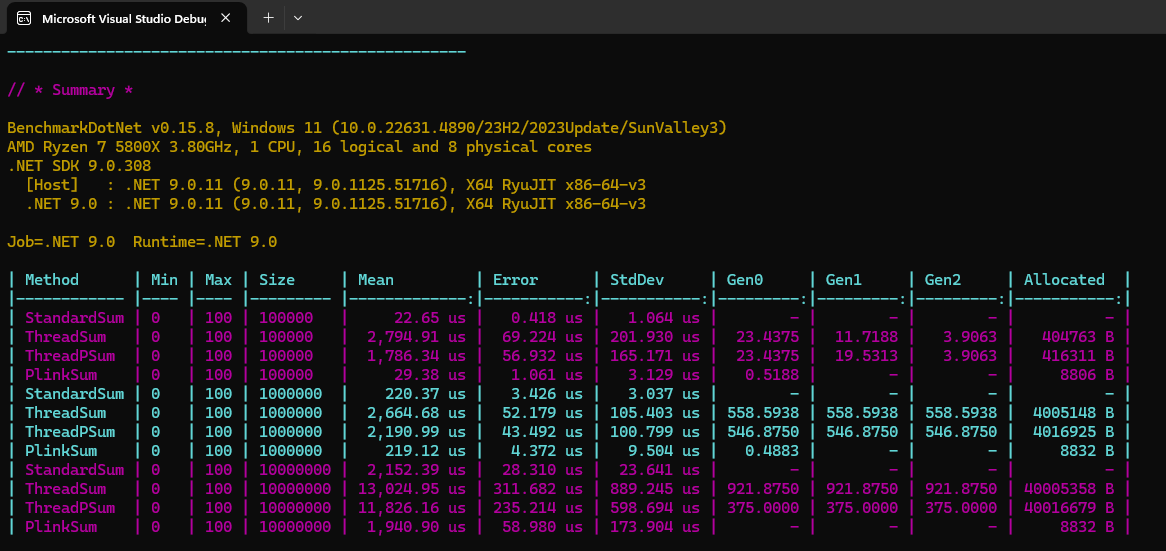
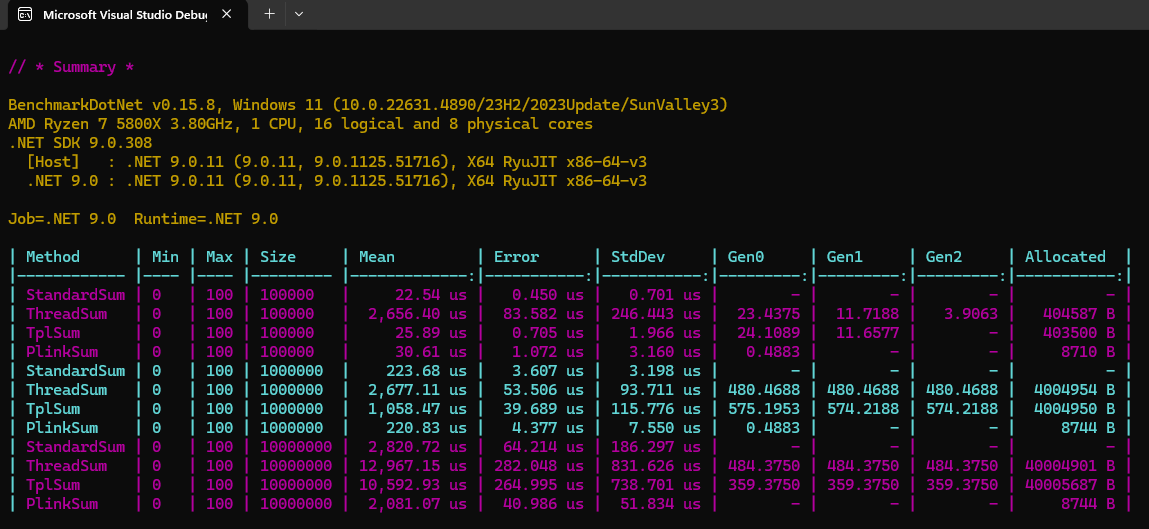
Some changes.

Changed region(s): [[0.0, 0.0907, 1.0, 0.9679], [0.0, 0.0, 1.0, 0.0605]]

diff --git a/MultiThreadingProject/ArraySumTest.cs b/MultiThreadingProject/ArraySumTest.cs
@@ -1,6 +1,5 @@
 using BenchmarkDotNet.Attributes;
 using BenchmarkDotNet.Jobs;
-using System.Collections.Concurrent;
 
 namespace MultiThreadingProject;
 
@@ -22,6 +21,7 @@ public class ArraySumTest
     [Params(100)]
     public int Max { get; set; }
 
+    // Будет замер для трёх размеров массива
     [Params(100000, 1000000, 10000000)]
     public int Size { get; set; }
 
@@ -36,19 +36,21 @@ public class ArraySumTest
 
 
     [Benchmark]
-    public void StandardSum()
+    public long StandardSum()
     {
-        var sum = 0;
+        var sum = 0L;
         foreach (var item in sourceArray)
         {
             sum += item;
         }
 
         //Console.WriteLine("Sum of sequential process: {0}", sum);
+
+        return sum;
     }
 
     [Benchmark]
-    public void ThreadSum()
+    public long ThreadSum()
     {
         //Разбиваем массив на куски.
         //Возьмём кол-во кусков = кол-ву ядер процессора.
@@ -62,7 +64,7 @@ public class ArraySumTest
                                 .ToArray();
 
         var threads = new List<Thread>(chunks.Length);
-        var sum = 0;
+        var sum = 0L;
 
         //Каждый кусок обрабатываем в отдельном потоке.
         foreach (var chunk in chunks)
@@ -84,10 +86,12 @@ public class ArraySumTest
         }
 
         //Console.WriteLine("Sum of thread process: {0}", sum);
+
+        return sum;
     }
 
     [Benchmark]
-    public void ThreadPSum()
+    public long TplSum()
     {
         //Разбиваем массив на куски.
         //Возьмём кол-во кусков = кол-ву ядер процессора.
@@ -100,40 +104,28 @@ public class ArraySumTest
         var chunks = sourceArray.Chunk(chunkSize)
                                 .ToArray();
 
-        var threads = new ConcurrentBag<Thread>();
-        var sum = 0;
+        var sum = 0L;
 
         Parallel.ForEach(chunks, chunk =>
         {
-            var chunkThread = new Thread(() =>
-            {
-                var partSum = chunk.Sum();
-                Interlocked.Add(ref sum, partSum);
-            });
-
-            threads.Add(chunkThread);
-            chunkThread.Start();
+            var partSum = chunk.Sum();
+            Interlocked.Add(ref sum, partSum);
         });
 
+        //Console.WriteLine("Sum of TPL process: {0}", sum);
 
-
-        // Потоки нужно синхронизировать и получить общий результат
-        foreach (var thread in threads)
-        {
-            thread.Join();
-        }
-
-        //Console.WriteLine("Sum of parallel thread process: {0}", sum);
+        return sum;
     }
 
     [Benchmark]
-    public void PlinkSum()
+    public long PlinkSum()
     {
         var sum = sourceArray.AsParallel()
-                             .AsOrdered()
                              .Sum();
 
         //Console.WriteLine("Sum of plink process: {0}", sum);
+
+        return sum;
     }
 
 

diff --git a/MultiThreadingProject/Program.cs b/MultiThreadingProject/Program.cs
@@ -12,7 +12,8 @@ internal class Program
         Console.WriteLine($"OS Architecture: {RuntimeInformation.OSArchitecture}");
         Console.WriteLine($"FrameworkDescription: {RuntimeInformation.FrameworkDescription}");
 
-
+        // Начал сам собирать инфу об окружении, но бенчмарк это делает уже хорошо для разных платформ.
+        // Да и результаты в табличке показывет, поэтому собственно его решил выбрать.
         BenchmarkRunner.Run<ArraySumTest>();
     }
 }
